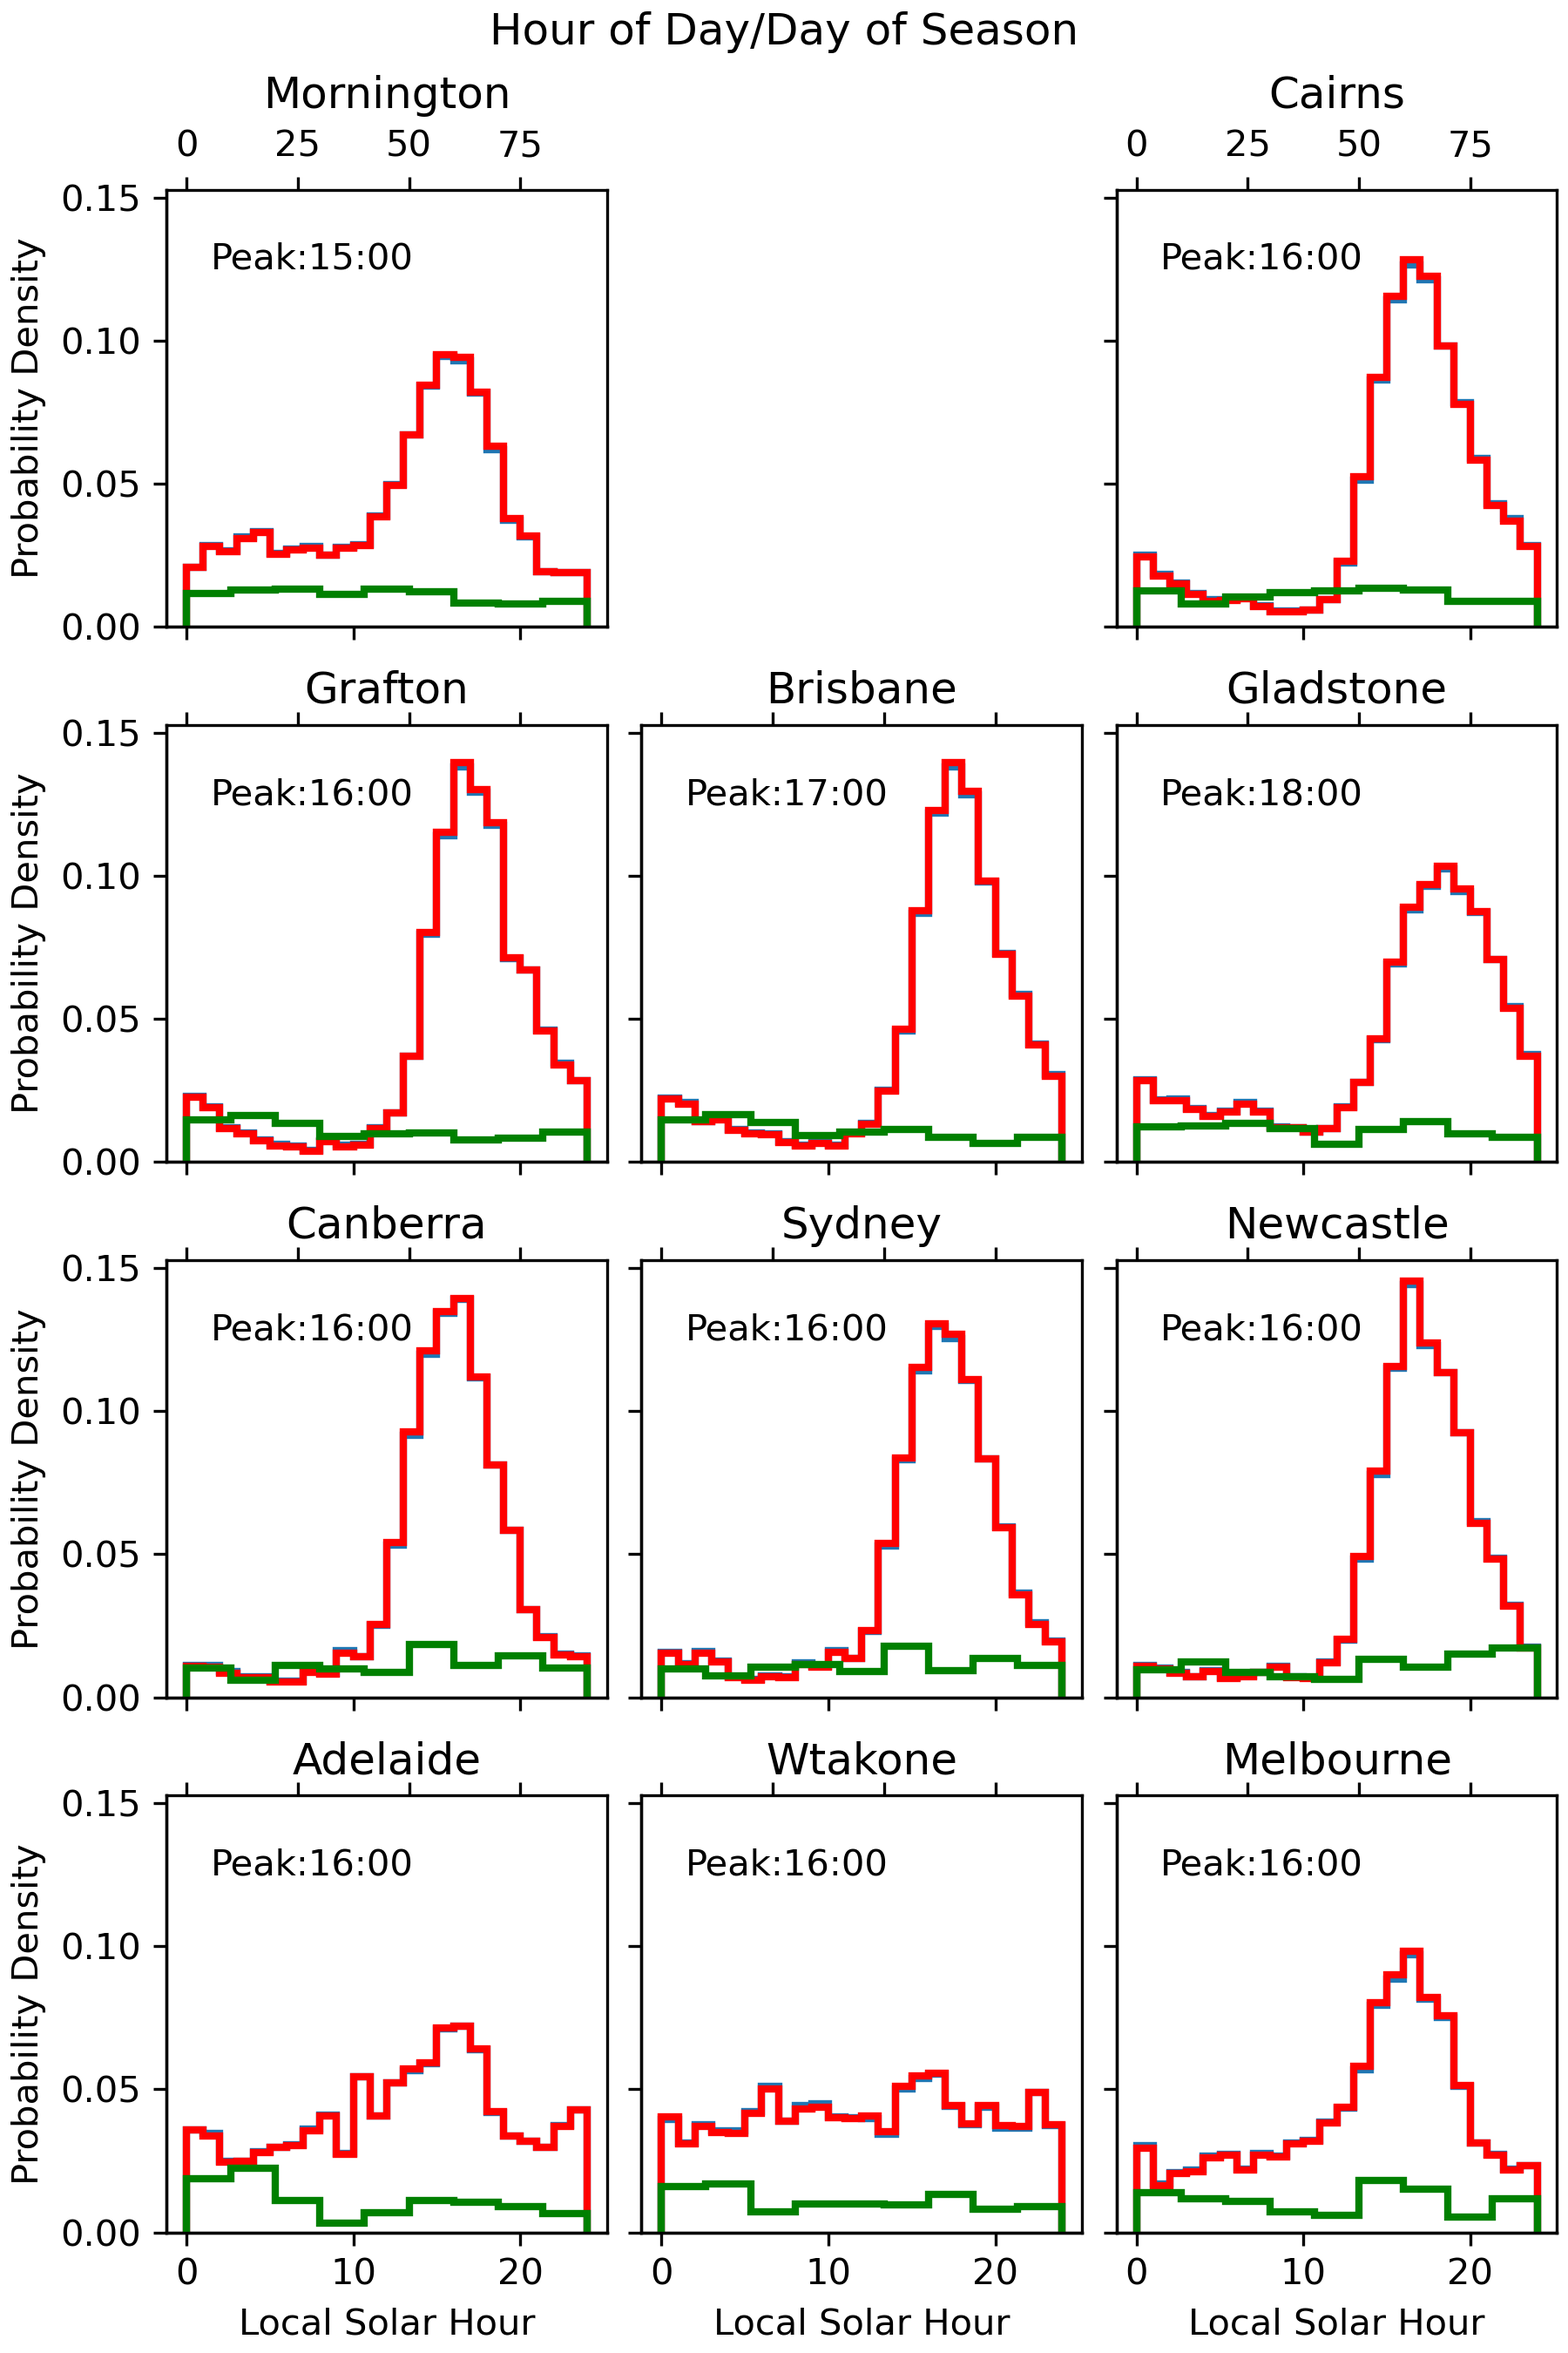
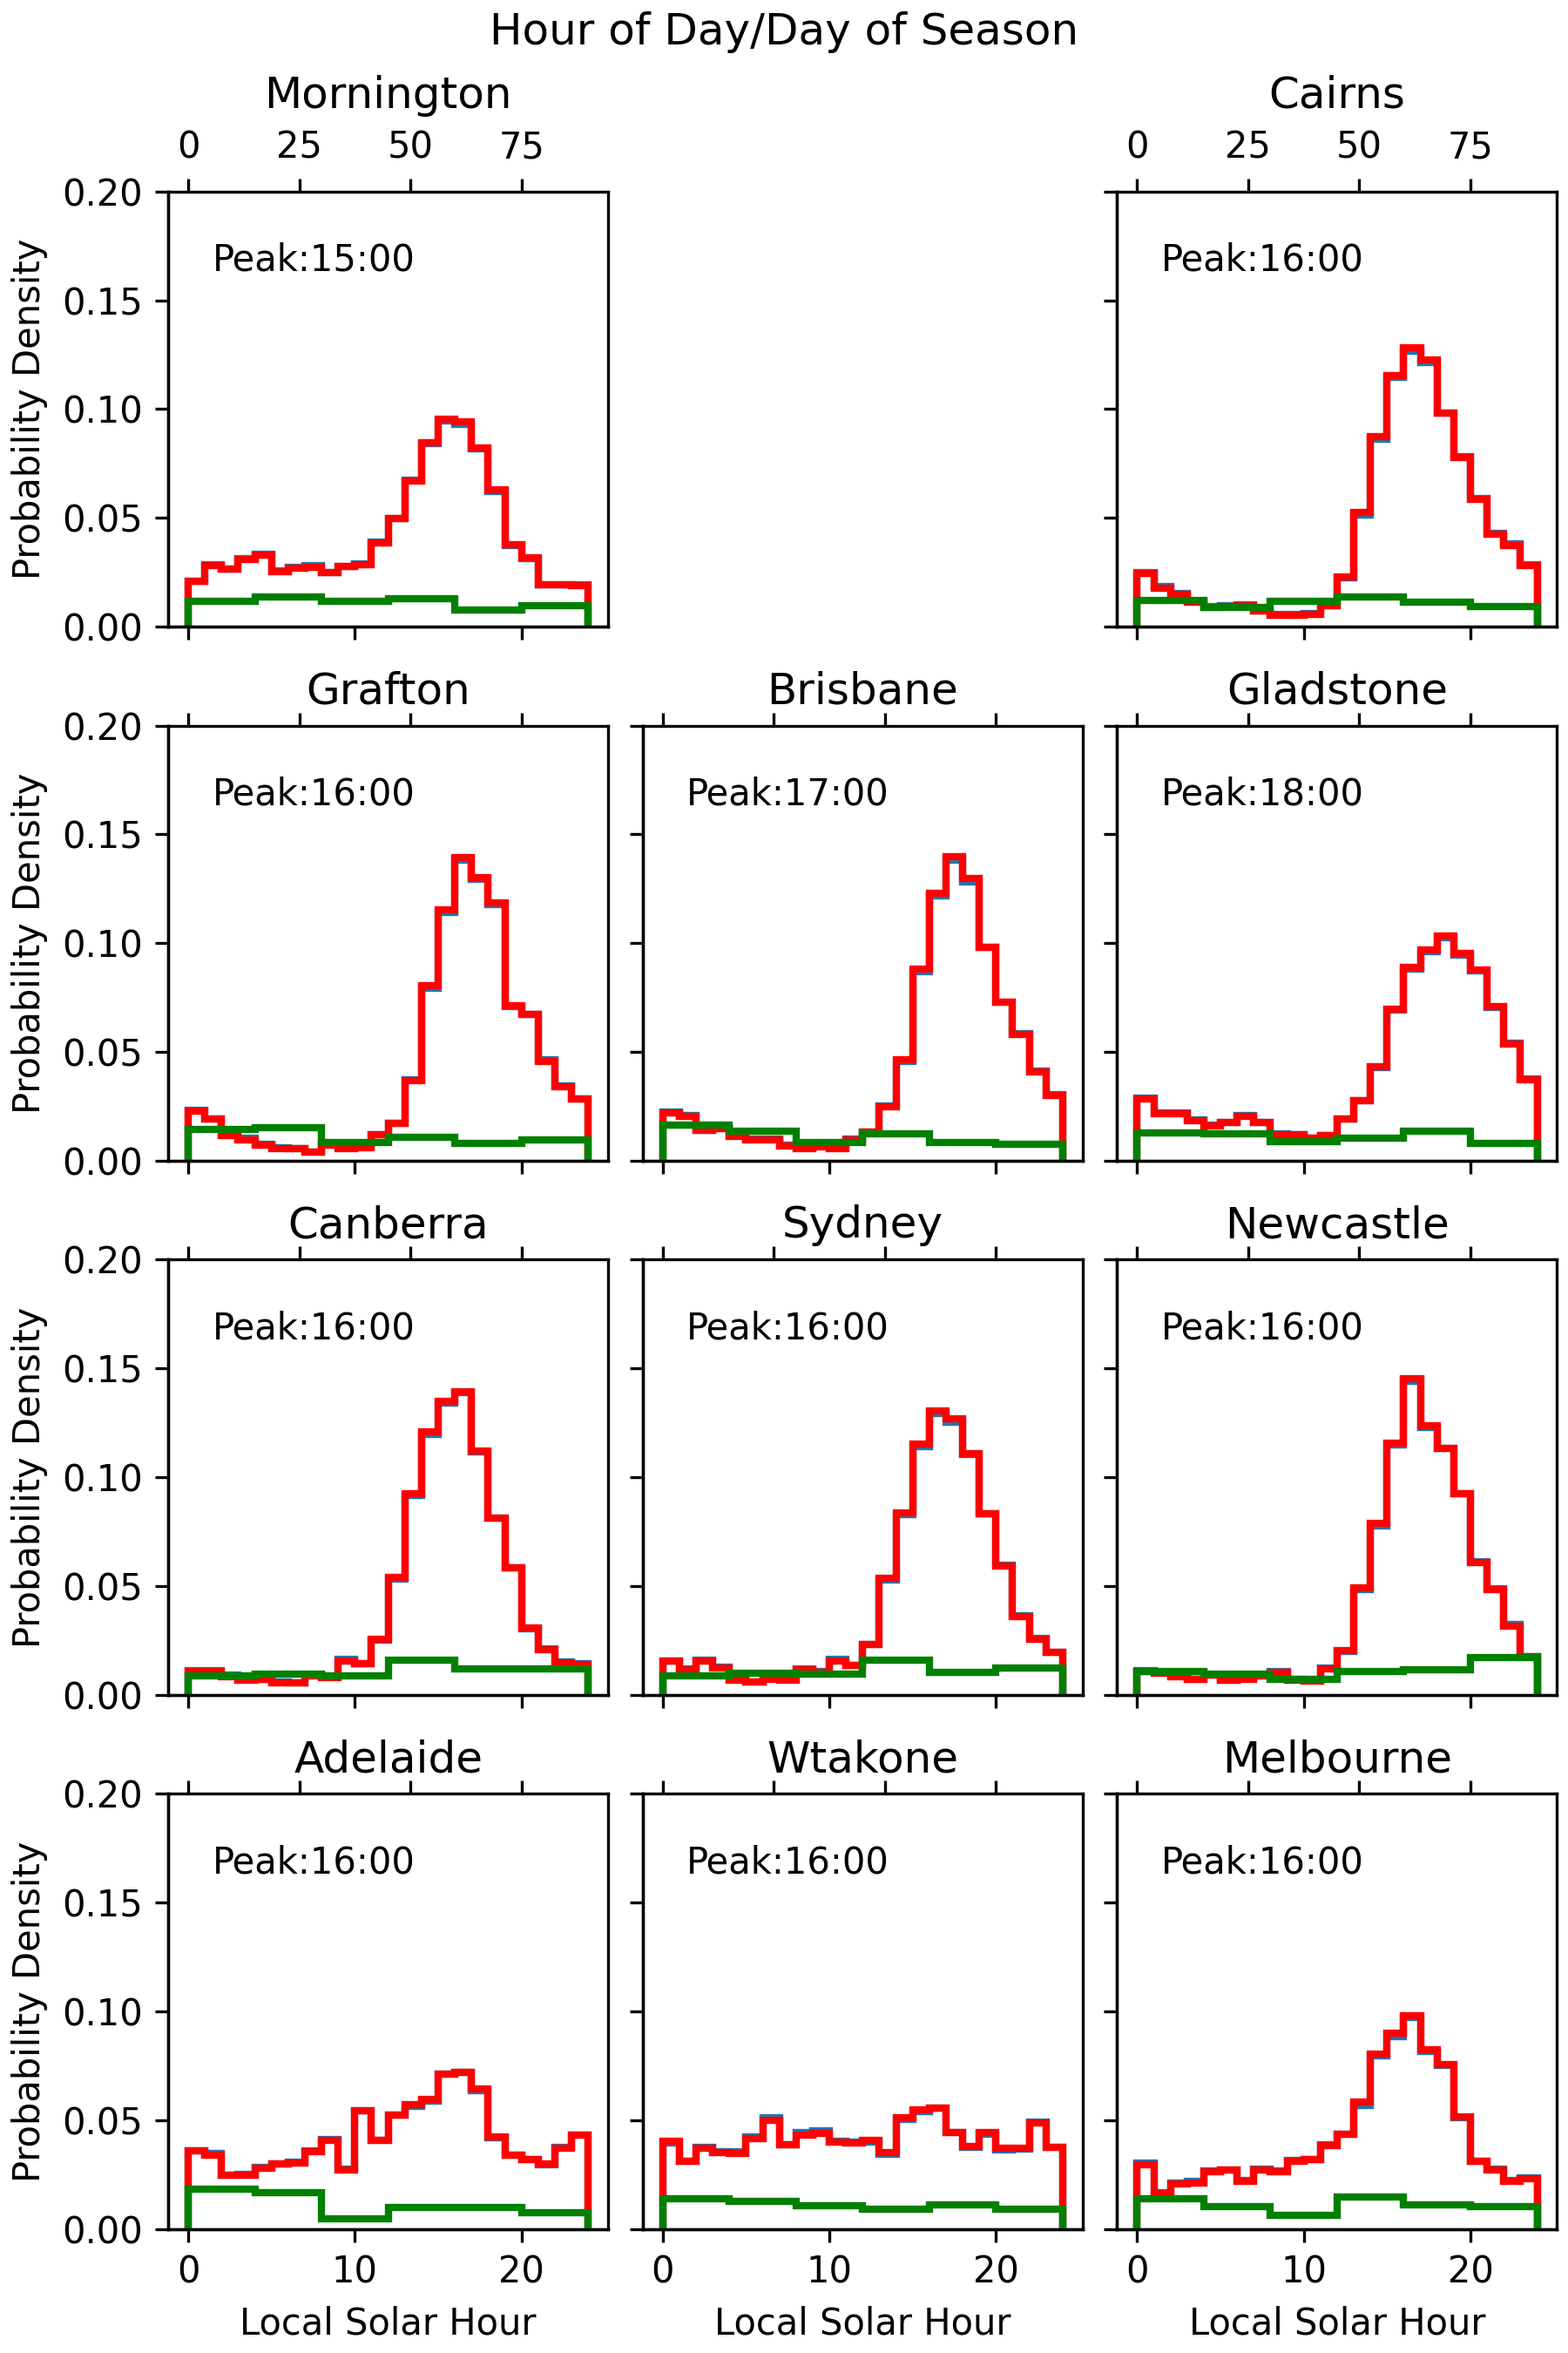
Removing  old figures and adding some more.

diff --git a/plots/plot_gev_fits.py b/plots/plot_gev_fits.py
@@ -30,7 +30,7 @@ def trim(ds: xarray.Dataset) -> xarray.DataArray:
 
 
 def read_data(file: pathlib.Path) -> xarray.DataArray:
-    ds = xarray.load_dataset(file)
+    ds = xarray.load_dataset(file).reindex(resample_prd=['30min','1h','2h','4h','8h'])
     L = ds.Parameters.sel(parameter='scale') > -10
     L = L & (ds.Parameters.sel(parameter='location') > 0)
     if L.sum() < L.count():
@@ -71,10 +71,14 @@ for site in ausLib.site_numbers.keys():
     be_ratio = ausLib.comp_ratios(be_t.Parameters)
     be_ratio = be_ratio.assign_coords(parameter=[k.replace('_Tanom','') for k in be_ratio.parameter.values]).rename('be_ratio')
     ds['be_ratio'] = be_ratio
-    bs_ratio = ausLib.comp_ratios(bs_t.Parameters).std('bootstrap_sample')
+    be_ratio_sens=ausLib.comp_ratios(be_t_sens.Parameters)
+    be_ratio_sens = be_ratio_sens.assign_coords(parameter=[k.replace('_Tanom','') for k in be_ratio_sens.parameter.values]).rename('be_ratio_sens')
+    ds['be_ratio_sens'] = be_ratio_sens
+    bs_ratio = ausLib.comp_ratios(bs_t.Parameters)#.std('bootstrap_sample')
     # now to rename
     bs_ratio = bs_ratio.assign_coords(parameter=[k.replace('_Tanom','') for k in bs_ratio.parameter.values]).rename('bs_uncert')
-    ds['bs_ratio_std']=bs_ratio
+    ds['bs_ratio']=bs_ratio
+    ds['bs_ratio_std'] = bs_ratio.std('bootstrap_sample')
     gev[site] = ds
 
     my_logger.info(f'Processed {site}')
@@ -90,9 +94,11 @@ for rng, sites in ausLib.region_names.items():
             continue
         site_ds += [gev[site].expand_dims(site=[site])]
     site_ds = xarray.concat(site_ds, dim='site')
+    bs_mean = site_ds.bs_ratio.mean(dim='site')
+    be_mean_sens = site_ds.be_ratio_sens.mean(dim='site')
+    ds = dict(be_ratio= site_ds.be_ratio.mean(dim='site'), be_ratio_sens=be_mean_sens,
+              bs_ratio=bs_mean,bs_ratio_std=bs_mean.std('bootstrap_sample'))
 
-    ds = dict(be_ratio= site_ds.be_ratio.mean(dim='site'),
-                        bs_ratio_std = (site_ds.bs_ratio_std**2).mean(dim='site')/site_ds.bs_ratio_std.count(dim='site'))
 
     gev[rng] = xarray.Dataset(ds)
 my_logger.info('Processed regions')
@@ -111,10 +117,10 @@ for site, ax in axes.items():
         ms = np.where(pbetter > 0.9, 20, 0)
     except AttributeError:
         ms = 20
-    for p, m, c in zip(['location', 'scale'], ['o', 'h'], ['blue', 'red']):
-        mn = gev[site][p].drop_sel(resample_prd='8h') * 100
-        mn_sens = gev[site][p + '_sens'].drop_sel(resample_prd='8h') * 100
-        sd = gev[site][p + '_std'].drop_sel(resample_prd='8h') * 100
+    for p, m, c in zip(['Dlocation', 'Dscale'], ['o', 'h'], ['blue', 'red']):
+        mn = gev[site].be_ratio.sel(parameter=p).drop_sel(resample_prd='8h') * 100
+        mn_sens = gev[site].be_ratio_sens.sel(parameter=p).drop_sel(resample_prd='8h') * 100
+        sd = gev[site].bs_ratio_std.sel(parameter=p).drop_sel(resample_prd='8h') * 100
 
         ax.errorbar(mn.resample_prd, mn, yerr=uncert_sd_scale * sd, label=p, linestyle='--', color=c, capsize=5, elinewidth=2)
         ax.scatter(mn.resample_prd, mn, s=ms, color=c, marker=m)

diff --git a/plots/plot_digit_corr.py b/plots/plot_digit_corr.py
@@ -1,0 +1,58 @@
+# plot the digitisation and bias correction from the DJF means.
+import ausLib
+import matplotlib.pyplot as plt
+import xarray
+import commonLib
+import numpy as np
+# get in the data first.
+my_logger = ausLib.setup_log(2)
+metadata=dict()
+
+for site in ausLib.site_numbers.keys():
+    meta_data_files = sorted((ausLib.data_dir / f'site_data/{site}_metadata/').glob(f'{site}_*_metadata.nc'))
+    ds = xarray.open_mfdataset(meta_data_files,concat_dim='time',combine='nested',parallel=True)
+    ds = ds.sortby('time')
+    ds = ds.resample(time='QS-DEC').mean()
+    ds = ds.where(ds.time.dt.season == 'DJF',drop=True)
+    metadata[site] =ds.load()
+    my_logger.debug(f'Loaded data for {site}')
+radar_stns = ausLib.read_radar_file('meta_data/long_radar_stns.csv')
+my_logger.info('Loaded all data')
+
+## now to plot the data.
+fig, axes = ausLib.std_fig_axs(f'digit_corr', sharey=True,sharex=True)
+for site, ax in axes.items():
+    calibration_offset = metadata[site].calibration_offset
+    calibration_offset.plot(ax=ax, color='k',ds='steps-pre')
+
+    ax.set_title(site)
+    ax.set_xlabel('Time')
+    ax.set_ylabel('Calib Offset (dBZ)')
+    ax.tick_params(axis='x', labelsize='small',rotation=45) # set small font!
+    ax.set_xlabel('Year')
+    ax.label_outer()
+    # add on meta-data to show when things change,.
+    records = radar_stns.loc[radar_stns['id'] == ausLib.site_numbers[site]]
+    lim = np.array(axes[site].get_ylim())
+    y = 0.75 * lim[1] + 0.25 * lim[0]
+    for name, r in records.iterrows():
+        x = np.datetime64(r['postchange_start'])
+        axes[site].axvline(x, color='red', linestyle='--')
+        axes[site].text(x, y, r.radar_type, ha='left', va='center', fontsize='x-small', rotation=90)
+    # add second axis for fraction
+    ax2 = ax.twinx()
+    fraction = metadata[site].rapic_VIDRES
+    fraction.plot(ax=ax2,drawstyle='steps-pre',color='purple')
+    ax2.set_ylabel('Radar Res (bits)',color='purple')
+    ax2.set_yscale('log')
+    ticks = [8, 16, 32, 64, 128]
+    # Set custom ticks and labels
+    ax2.set_yticks(ticks)
+    ax2.set_yticklabels([str(tick) for tick in ticks])
+    ax2.set_title('')
+    ax2.label_outer()
+    #ax2.set_ylim(0.75,1.05)
+
+fig.suptitle(f'Corr and Digit')
+fig.show()
+commonLib.saveFig(fig)

diff --git a/plots/plot_hr_day_dist.py b/plots/plot_hr_day_dist.py
@@ -49,8 +49,10 @@ for site, ax in axs.items():
     ax.text(0.1,0.8,f'Peak:{mode:2d}:00' ,transform=ax.transAxes,va='bottom',ha='left')
     ax.label_outer()
     ax2=ax.twiny()
-    ax2.set_xlabel('Day of Year',color='green')
-    bins, edges, patches = day_of_season[site].to_xarray().plot.hist(bins=np.arange(0,100,10), density=True, ax=ax2, histtype='step',
+    ax2.set_xlabel('Day of Season',color='green')
+    #ax2.set_ylim(0,0.2)
+    bins, edges, patches = day_of_season[site].to_xarray().plot.hist(bins=np.arange(0,91,15),
+                                                                     density=True, ax=ax2, histtype='step',
                                                     linewidth=2,color='green')
     ax2.set_title('')
     ax2.label_outer()

diff --git a/ausLib.py b/ausLib.py
@@ -656,8 +656,8 @@ def site_info(site_no: int) -> pd.DataFrame:
         site_no: site to get info on
     Returns: pandas series with information on site.
     """
-    from importlib.resources import files
-    file = files('meta_data') / 'long_radar_stns.csv'
+
+    file = module_path/'meta_data' / 'long_radar_stns.csv'
     df = read_radar_file(file)
     L = df.id == site_no
     meta = df[L]
